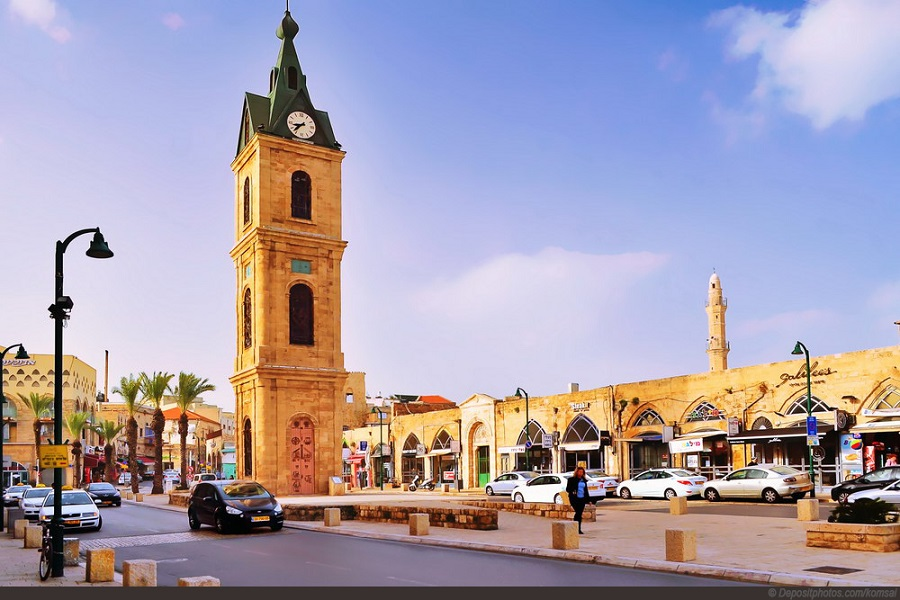
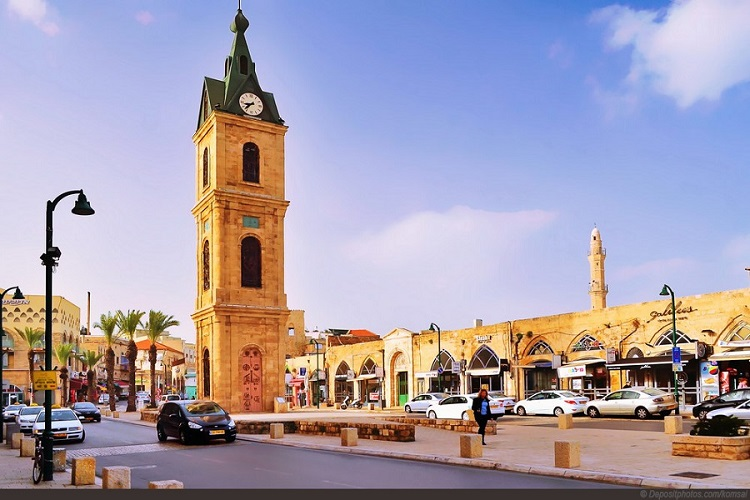
Adding meta description for website and compres image cities

diff --git a/index.html b/index.html
@@ -8,7 +8,9 @@ that image.
 
     <head>
         
+        <meta charset="utf-8">
         <meta name="viewport" content="width-device-width, initial-scale=1.0">
+        <meta name="description" content="MobiWareFood is a premium food delivery service to bring affordable and healty meals to as many people as posible">
         
         <link rel="stylesheet" type="text/css" href="vendors/css/normalize.css">
         <link rel="stylesheet" type="text/css" href="vendors/css/Grid.css">
@@ -22,13 +24,13 @@ that image.
         
         
         
-        <link rel="apple-touch-icon" sizes="180x180" href="\resources\FavIcons/apple-touch-icon.png">
-        <link rel="icon" type="image/png" sizes="32x32" href="\resources\FavIcons/favicon-32x32.png">
-        <link rel="icon" type="image/png" sizes="16x16" href="\resources\FavIcons/favicon-16x16.png">
-        <link rel="manifest" href="\resources\FavIcons/manifest.json">
-        <link rel="mask-icon" href="\resources\FavIcons/safari-pinned-tab.svg" color="#5bbad5">
-        <link rel="shortcut icon" href="\resources\FavIcons/favicon.ico">
-        <meta name="msapplication-config" content="\resources\FavIcons/browserconfig.xml">
+        <link rel="apple-touch-icon" sizes="180x180" href="\resources\FavIcons\apple-touch-icon.png">
+        <link rel="icon" type="image/png" sizes="32x32" href="\resources\FavIcons\favicon-32x32.png">
+        <link rel="icon" type="image/png" sizes="16x16" href="\resources\FavIcons\favicon-16x16.png">
+        <link rel="manifest" href="\resources\FavIcons\manifest.json">
+        <link rel="mask-icon" href="\resources\FavIcons\safari-pinned-tab.svg" color="#5bbad5">
+        <link rel="shortcut icon" href="\resources\FavIcons\favicon.ico">
+        <meta name="msapplication-config" content="\resources\FavIcons\browserconfig.xml">
         <meta name="theme-color" content="#ffffff">
         
         
@@ -403,7 +405,7 @@ that image.
                     <blockquote>
                         
                          MobiWare is just awesome! I just launched a startup which leaves me with no time for cooking, so MobiWare is a life-saver. <br>Now that I got used to it, I couldn't live without my daily meals!
-                         <cite ><img src="resources/img/customer-1.jpg">Alberto Duncan</cite>
+                         <cite ><img src="resources/img/customer-1.jpg" alt="customer 1 photo">Alberto Duncan</cite>
                         
                     
                     </blockquote>
@@ -415,7 +417,7 @@ that image.
                     <blockquote>
                         
                          Inexpensive, healthy and great-tasting meals, delivered right to my home. We have lots of food delivery here in Tel Aviv, but no one comes even close to MobiWare. Me and my family are so in love!
-                         <cite><img src="resources/img/customer-2.jpg">Joana Silva</cite>
+                         <cite><img src="resources/img/customer-2.jpg" alt="customer 2 photo">Joana Silva</cite>
                         
                     
                     </blockquote>
@@ -427,7 +429,7 @@ that image.
                     <blockquote>
                         
                          I was looking for a quick and easy food delivery service in Jerusalem. I tried a lot of them and ended up with MobiWare. Best food delivery service in the Ancient City. Keep up the great work!
-                         <cite><img src="resources/img/customer-3.jpg">Milton Chapman</cite>
+                         <cite><img src="resources/img/customer-3.jpg" alt="customer 3 photo">Milton Chapman</cite>
                         
                     
                     </blockquote>
